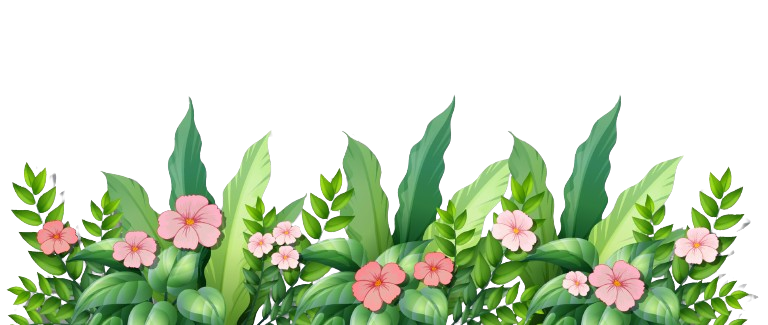
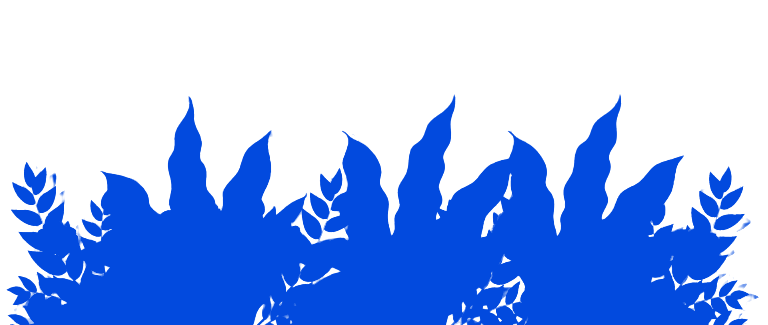
added all the shapes

diff --git a/styles.css b/styles.css
@@ -67,7 +67,7 @@ nav{
 }
 .nav-link, .nav-bar-icon{
     background-color: var(--lilac);
-    border-radius: 20px;
+    border-radius: 1.5em;
     display: flex;
     align-items: center;
     color: var(--dark-blue);
@@ -78,14 +78,14 @@ nav{
     background-color: var(--pink2);
 }
 .nav-bar-icon{
-    padding: 10px;
+    padding: 15px;
     font-weight: 600;
-    font-size: 20px;
+    font-size: 1.5em;
 
 }
 .container-text{
     width: 100vw;
-    height: 100vh;
+    height: 90vh;
     background: var(--dark-blue);
     position: relative;
     color: var(--white);
@@ -93,10 +93,11 @@ nav{
     flex-direction: column;
     align-items: center;
     margin: 0 auto;
+    overflow: hidden;
     z-index: 1;
 }
 .container-text h1{
-    font-size: 200px;
+    font-size: 12em;
      font-family: 'Humane';
 
 }
@@ -107,7 +108,7 @@ nav{
 .container-text p{
     text-align: center;
     max-width: 500px;
-    font-size: 20px;
+    font-size: 1.5em;
     overflow: hidden;
 
 }
@@ -126,7 +127,7 @@ nav{
 }
 .left{
     display: flex;
-    rotate: 310deg;
+    rotate: 300deg;
     margin-right: 20%;
 
 }
@@ -151,7 +152,24 @@ nav{
 .bush{
     position: absolute;
     left: -10em;
+    bottom: -10em;
     z-index: 2;
+}
+.bush img{
+    width: 50em;
+}
+.bush2{
+    position: absolute;
+    right: -10em;
+    bottom: 0em;
+}
+.circle {
+    display: flex;
+  width: 80em;       /* Circle width */
+  height: 80em;      /* Circle height - same as width */
+  background-color: rgb(1, 52, 163); /* Circle color */
+  border-radius: 50%; /* Makes it a perfect circle */
+  margin-top: 15em;
 }
 
 

diff --git a/index.html b/index.html
@@ -62,6 +62,11 @@
                 <div class="bush">
                     <img src="images/bush2.png" alt="">
                 </div>
+                <div class="bush2">
+                    <img src="images/bush.png" alt="">
+                </div>
+                <div class="circle"></div>
+
                 
             </div>
         </div>
